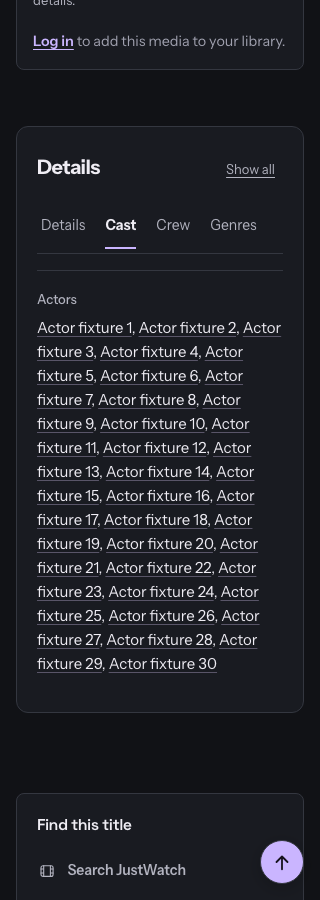
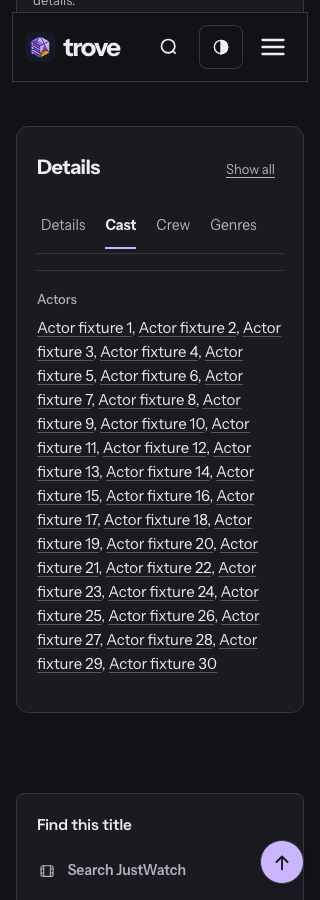
Keep inactive metadata searchable under the global hidden reset

Changed region(s): [[0.0938, 0.0311, 0.9062, 0.0933], [0.9375, 0.0, 0.9688, 0.0933], [0.0312, 0.0, 0.0625, 0.0933]]

diff --git a/app/assets/stylesheets/_metadata_tabs.scss b/app/assets/stylesheets/_metadata_tabs.scss
@@ -8,6 +8,9 @@
   .media-metadata-nav { display: flex; gap: 1.25rem; overflow-x: auto; overscroll-behavior-x: contain; border-bottom: 1px solid var(--border); margin-bottom: 1rem; padding: 4px; scrollbar-width: thin; }
   .media-metadata-nav a { display: flex; align-items: center; min-height: 44px; flex-shrink: 0; color: var(--text-secondary); font-size: .875rem; text-decoration: none; border-bottom: 2px solid transparent; }
   .media-metadata-nav a[aria-selected="true"] { color: var(--text); border-bottom-color: var(--accent); font-weight: 650; }
+  // The global hidden reset uses display:none!important. Until-found panels
+  // must retain a box so the browser can search and reveal their contents.
+  .media-metadata-panel[hidden="until-found"] { display: block !important; content-visibility: hidden; }
   .media-metadata-panel { scroll-margin-top: 8rem; min-width: 0; overflow-wrap: anywhere; }
   .media-metadata-panel h3 { font-size: .9375rem; margin: 1.25rem 0 .75rem; }
   &[data-tabbed="true"] .media-metadata-panel h3 { position: absolute; width: 1px; height: 1px; padding: 0; overflow: hidden; clip-path: inset(50%); white-space: nowrap; }

diff --git a/spec/system/media_metadata_tabs_system_spec.rb b/spec/system/media_metadata_tabs_system_spec.rb
@@ -34,6 +34,9 @@ RSpec.describe 'Metadata tabs', type: :system do
     page.go_forward
     expect(page).to have_css('#title-details[data-metadata-tabs-connected="true"]')
     expect(page).to have_css('#metadata-taxonomy-tab[aria-selected="true"]')
+    expect(page.evaluate_script("getComputedStyle(document.querySelector('#metadata-cast')).display")).to eq('block')
+    expect(page.evaluate_script("getComputedStyle(document.querySelector('#metadata-cast')).contentVisibility"))
+      .to eq('hidden')
     page.execute_script("document.querySelector('#metadata-cast').dispatchEvent(new Event('beforematch'))")
     expect(page).to have_css('#metadata-cast-tab[aria-selected="true"]')
     click_button 'Show all'
@@ -42,7 +45,14 @@ RSpec.describe 'Metadata tabs', type: :system do
     expect(page).to have_no_css('[role="tabpanel"]')
     expect(page).to have_css('#title-details .media-metadata-panel:not([hidden])', count: 4)
     click_button 'Show tabs'
-    expect(page).to have_css('[role="tabpanel"]', count: 1)
+    expect(page).to have_css('[role="tabpanel"]:not([hidden])', count: 1)
+  end
+
+  it 'keeps inactive metadata searchable to the browser text-search algorithm' do
+    visit movie_path(movie)
+    expect(page).to have_css('#title-details[data-metadata-tabs-connected="true"]')
+    expect(page).to have_css('#metadata-details-tab[aria-selected="true"]')
+    expect(page.evaluate_script("window.find('Actor fixture 30', false, false, true)")).to be true
   end
 
   it 'aligns a direct document fragment after enhancing long metadata and after reload' do

diff --git a/docs/design/media-detail.md b/docs/design/media-detail.md
@@ -21,3 +21,5 @@ Final discovery bound: typed JSON membership checks examine the 500 most recentl
 History uses native fragment URLs while retaining Turbo restoration identifiers. Selected/expanded metadata presentation is retained in history and a bounded transient cache of twenty paths; it stores no catalog content or viewer tracking state. Caching never expands the live metadata island, preserving anchor geometry. Focused regressions keep the existing strict header/anchor assertions and cover direct URLs, reload, backward/forward navigation, Turbo back, searchable panels and expanded-state restoration.
 
 Measured lookup budget: five SQL queries for six same-type favorite rows; named publication checks use one distinct tuple query bounded by the matched candidate count, with no preview blob/history preload. Small cover previews request the existing 180px rendition and decode lazily.
+
+Searchability regression: the global `[hidden] { display:none!important }` reset is overridden only for metadata panels in the `until-found` state, retaining searchable content-visibility boxes. Browser tests check computed display/content visibility, Chrome text-search discovery and the beforematch reveal action. A native Chrome find-menu attempt was blocked by an unrelated pre-existing file dialog; that dialog was left untouched, and the isolated verification tab/server were closed. Native find-menu interaction and assistive-technology speech remain manual verification limits.
